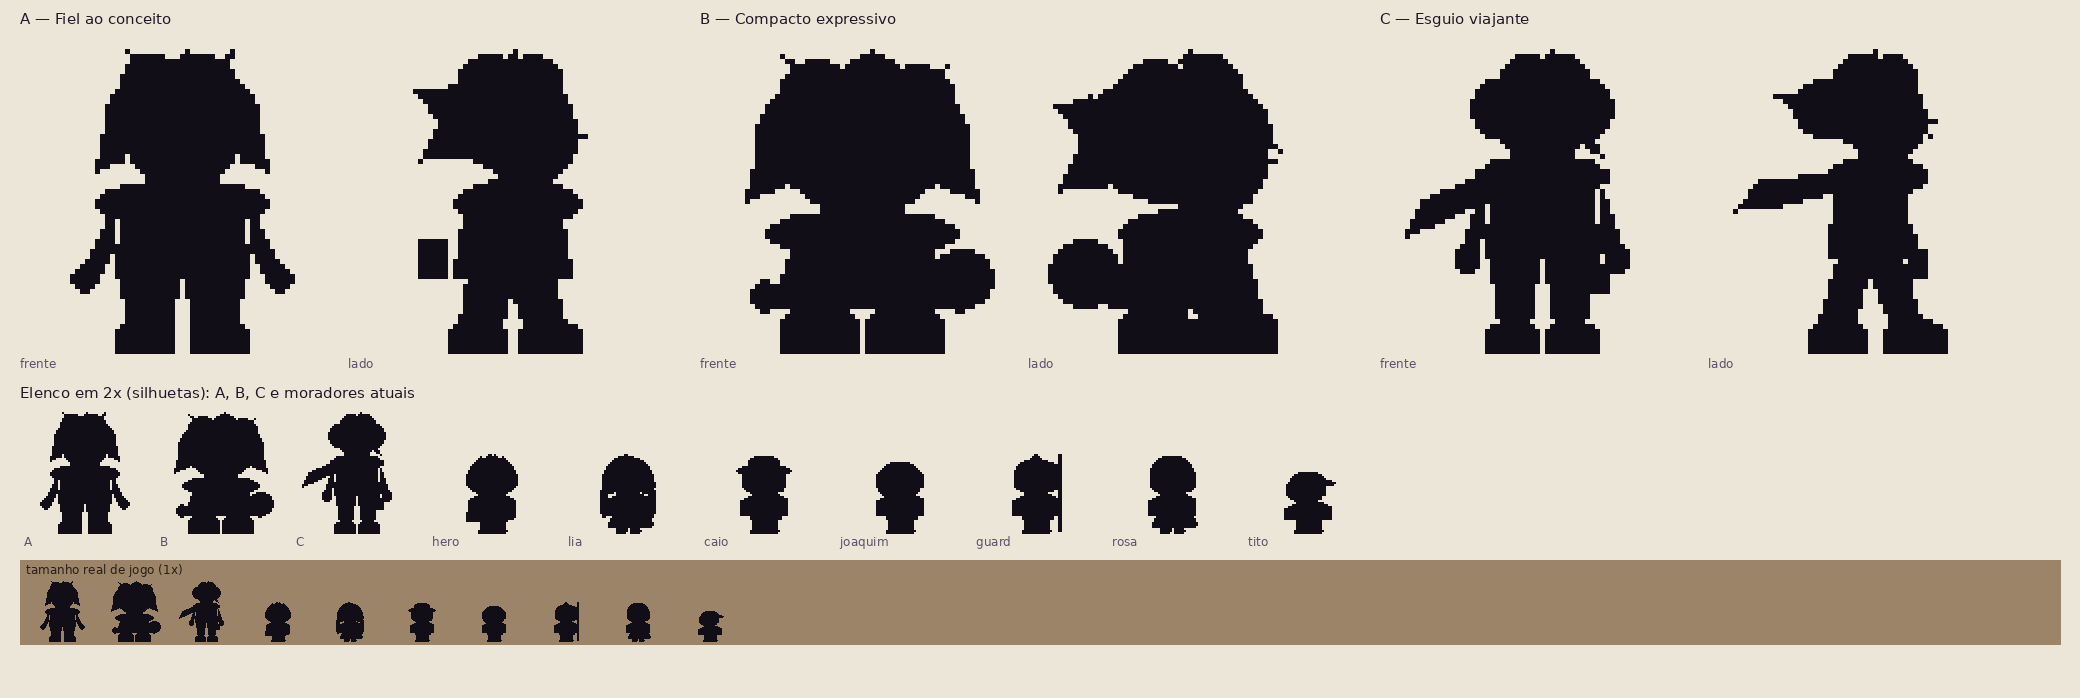
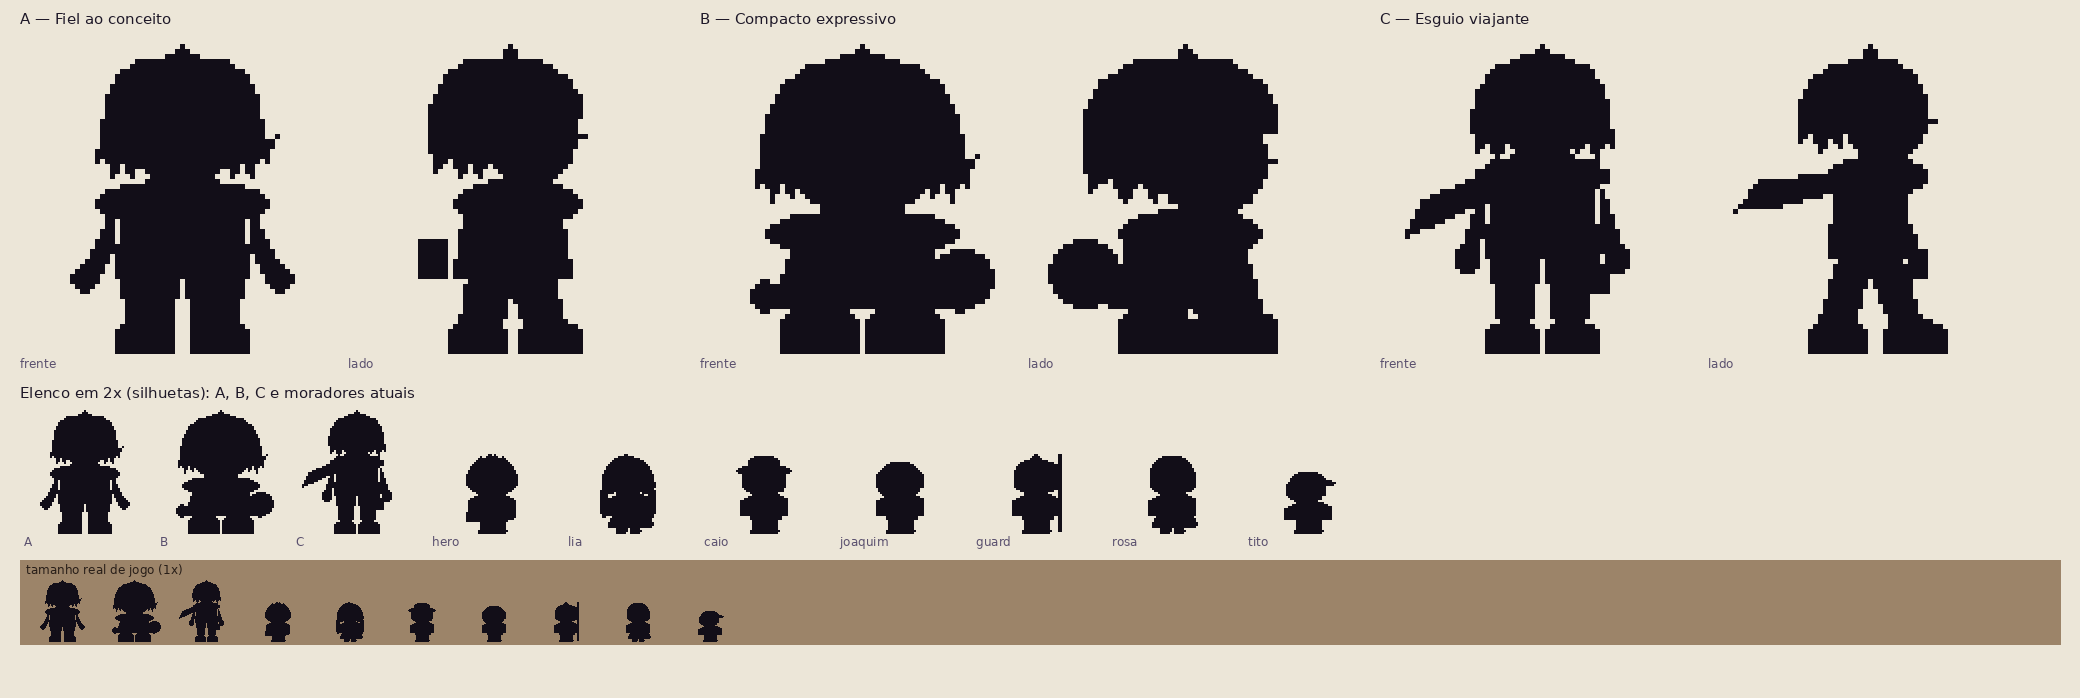
Hero silhouettes v3: shaggy bowl-cut hair per user feedback
Claude-Session: https://claude.ai/code/session_01SH8uRb7GcbEgPpRqd4KMaR

diff --git a/assets/characters/hero/concepts/silhouettes/make_silhouettes.py b/assets/characters/hero/concepts/silhouettes/make_silhouettes.py
@@ -25,15 +25,16 @@ def shapes(d, items):
             d.polygon(pts, fill=BLACK)
 
 
-# Cabelo: mechas arredondadas (elipses) + poucos fios curtos — ondulado e bagunçado como na referência,
-# nada de "estrela" de pontas triangulares. Recorte no pescoço para o cachecol ler como forma própria.
+# Cabelo v3 (pedido do usuário): corte tigela desgrenhado — topo mais reto, laterais retas até a mandíbula,
+# barra recortada irregular e só 1-2 fios fora do lugar; nada de pontas espetadas nem massa redonda.
+# Recorte no pescoço para o cachecol ler como forma própria.
 
 # ---------------------------------------------------------------- A: fiel ao conceito (~2,6 cabeças)
 A_S = [
-    ("e", [17, 6, 47, 26]), ("e", [20, 4, 32, 14]), ("e", [30, 4, 42, 13]),
-    ("p", [(18, 12), (15, 27), (20, 25), (24, 15)]), ("p", [(46, 12), (49, 27), (44, 25), (40, 15)]),
-    ("p", [(24, 6), (21, 3), (27, 5)]), ("p", [(38, 6), (42, 3), (40, 8)]), ("p", [(30, 5), (33, 3), (33, 5)]),                         # fio espetado do topo
-    ("e", [21, 10, 43, 30]),
+    ("p", [(23, 5), (29, 4), (35, 4), (41, 5), (45, 8), (47, 13), (48, 19), (49, 25), (47, 24), (46, 28), (44, 25), (42, 28), (40, 23),
+           (24, 23), (22, 28), (20, 25), (18, 28), (17, 24), (15, 25), (16, 19), (17, 13), (19, 8)]),
+    ("p", [(30, 5), (32, 2), (34, 5)]), ("p", [(48, 21), (51, 20), (49, 24)]),     # 2 fios fora do lugar
+    ("e", [22, 9, 42, 30]),
     ("e", [15, 29, 49, 38]),                                   # cachecol gola-tubo, mais largo que os ombros
     ("p", [(20, 35), (44, 35), (45, 48), (19, 48)]),           # suéter
     ("p", [(18, 36), (12, 47), (15, 49), (18, 42)]), ("p", [(46, 36), (52, 47), (49, 49), (46, 42)]),   # braços soltos do tronco
@@ -43,9 +44,10 @@ A_S = [
     ("e", [19, 57, 30, 63]), ("e", [34, 57, 45, 63]), ("r", [19, 60, 30, 63]), ("r", [34, 60, 45, 63]),
 ]
 A_E = [
-    ("e", [18, 6, 44, 26]), ("p", [(20, 10), (13, 11), (19, 18)]), ("p", [(19, 16), (14, 25), (22, 24)]), ("e", [22, 4, 34, 13]), ("e", [31, 4, 42, 13]),
-    ("p", [(40, 11), (46, 20), (38, 18)]), ("p", [(31, 5), (33, 3), (34, 5)]),
-    ("e", [26, 10, 45, 30]), ("p", [(44, 18), (47, 20), (44, 22)]),
+    ("p", [(19, 8), (23, 5), (31, 4), (38, 5), (43, 8), (46, 12), (46, 16), (41, 16), (38, 13), (30, 13), (28, 18), (28, 24),
+           (26, 28), (24, 25), (22, 28), (20, 24), (17, 27), (16, 21), (16, 14)]),
+    ("p", [(30, 5), (32, 2), (34, 5)]),
+    ("e", [27, 9, 45, 30]), ("p", [(44, 18), (47, 20), (44, 22)]),
     ("e", [21, 29, 46, 38]),
     ("p", [(23, 35), (42, 35), (44, 48), (21, 48)]),
     ("r", [14, 41, 19, 48]),                                   # bolsa atrás, separada do tronco
@@ -56,10 +58,10 @@ A_E = [
 
 # ---------------------------------------------------------------- B: compacto expressivo (~2,1 cabeças)
 B_S = [
-    ("e", [11, 7, 53, 33]), ("e", [16, 5, 30, 17]), ("e", [28, 4, 40, 14]), ("e", [36, 6, 50, 18]),
-    ("p", [(13, 16), (9, 33), (16, 30), (19, 20)]), ("p", [(51, 16), (55, 33), (48, 30), (45, 20)]),
-    ("p", [(20, 8), (16, 4), (23, 7)]), ("p", [(44, 9), (49, 6), (46, 12)]), ("p", [(31, 5), (34, 3), (34, 7)]),
-    ("e", [18, 14, 46, 36]),
+    ("p", [(21, 6), (28, 4), (36, 4), (43, 6), (48, 10), (51, 16), (52, 23), (53, 30), (51, 29), (50, 33), (48, 29), (46, 32), (44, 28),
+           (20, 28), (18, 32), (16, 29), (14, 33), (13, 29), (11, 30), (12, 23), (13, 16), (16, 10)]),
+    ("p", [(30, 5), (32, 2), (35, 5)]), ("p", [(52, 25), (55, 24), (53, 28)]),
+    ("e", [18, 13, 46, 36]),
     ("e", [13, 35, 51, 44]),                                   # cachecol enorme
     ("p", [(19, 40), (45, 40), (50, 54), (14, 54)]),           # suéter em A (quase um poncho)
     ("e", [10, 49, 15, 55]), ("e", [49, 49, 54, 55]),
@@ -68,8 +70,9 @@ B_S = [
     ("e", [16, 54, 31, 63]), ("e", [33, 54, 48, 63]), ("r", [16, 59, 31, 63]), ("r", [33, 59, 48, 63]),
 ]
 B_E = [
-    ("e", [10, 7, 48, 33]), ("p", [(12, 12), (5, 14), (11, 21)]), ("p", [(11, 20), (6, 31), (15, 30)]), ("e", [18, 5, 32, 16]), ("e", [29, 4, 42, 15]),
-    ("p", [(42, 13), (50, 23), (40, 21)]), ("p", [(30, 5), (32, 3), (34, 6)]),
+    ("p", [(14, 9), (21, 5), (31, 4), (40, 5), (46, 9), (49, 14), (49, 19), (44, 19), (40, 15), (30, 15), (27, 21), (27, 28),
+           (25, 33), (22, 29), (19, 33), (16, 28), (12, 31), (11, 24), (11, 15)]),
+    ("p", [(29, 5), (31, 2), (34, 5)]),
     ("e", [25, 14, 47, 36]), ("p", [(46, 23), (49, 25), (46, 27)]),
     ("e", [18, 35, 46, 44]),
     ("p", [(20, 40), (42, 40), (46, 54), (16, 54)]),
@@ -81,10 +84,10 @@ B_E = [
 
 # ---------------------------------------------------------------- C: esguio viajante (~3 cabeças)
 C_S = [
-    ("e", [21, 6, 43, 22]), ("e", [18, 9, 28, 20]), ("e", [36, 9, 46, 20]), ("e", [24, 4, 34, 12]), ("e", [31, 4, 41, 12]),
-    ("p", [(38, 12), (44, 24), (36, 19)]),                     # franja longa caindo
-    ("p", [(31, 5), (34, 3), (33, 6)]),
-    ("e", [23, 9, 41, 25]),
+    ("p", [(23, 6), (28, 4), (36, 4), (41, 6), (44, 10), (45, 15), (46, 22), (44, 21), (43, 25), (41, 21), (39, 23),
+           (25, 21), (23, 24), (21, 21), (19, 23), (18, 17), (19, 11)]),
+    ("p", [(30, 5), (32, 2), (34, 5)]),
+    ("e", [24, 9, 40, 25]),
     ("e", [19, 24, 45, 32]),                                   # cachecol…
     ("p", [(21, 27), (8, 33), (5, 40), (12, 37), (23, 32)]),   # …com ponta ao vento [proposta]
     ("p", [(22, 30), (42, 30), (43, 44), (21, 44)]),
@@ -96,8 +99,9 @@ C_S = [
     ("e", [21, 57, 31, 63]), ("e", [33, 57, 43, 63]), ("r", [21, 60, 31, 63]), ("r", [33, 60, 43, 63]),
 ]
 C_E = [
-    ("e", [22, 6, 42, 22]), ("e", [17, 9, 28, 20]), ("p", [(19, 11), (13, 12), (19, 16)]), ("e", [25, 4, 35, 12]), ("e", [32, 4, 41, 12]),
-    ("p", [(39, 11), (44, 20), (37, 17)]), ("p", [(31, 5), (33, 3), (34, 6)]),
+    ("p", [(20, 9), (24, 6), (31, 4), (37, 5), (41, 8), (43, 12), (43, 16), (39, 15), (36, 12), (29, 12), (27, 17), (26, 22),
+           (24, 20), (22, 23), (20, 19), (18, 21), (18, 14)]),
+    ("p", [(30, 5), (32, 2), (34, 5)]),
     ("e", [27, 9, 43, 25]), ("p", [(42, 15), (45, 17), (42, 19)]),
     ("e", [24, 24, 43, 32]),
     ("p", [(25, 27), (10, 29), (5, 35), (14, 34), (26, 31)]),  # ponta do cachecol para trás
